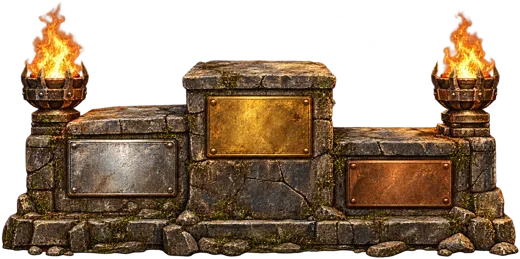
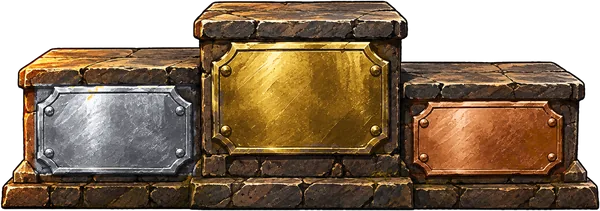
Changes page: new Talentsmith podium and stocks (approved on the Desk Nov 22)
Claude-Session: https://claude.ai/code/session_01TZvTBwK3Danco6NfbPHNFf

diff --git a/changes.html b/changes.html
@@ -39,7 +39,7 @@ table.races{width:auto;min-width:0}table.races th,table.races td{padding-right:2
 .wl p{margin:0 0 6px;font-size:13px;color:var(--muted)}
 .wl img{display:block;width:100%;max-width:300px;height:auto;margin:4px auto 8px}
 .wl ul{margin:0;padding:0;list-style:none;font-size:14.5px;line-height:1.45;color:#ddd4c2}.wl li{margin:6px 0}.wl li b{color:var(--gold-soft)}.wl .n li b{color:#f0a58a}
-@media (max-width:640px){.wl{grid-template-columns:1fr}}</style><div class="wl"><div><h2>Winners – Nov 23</h2><p>Talents that got better</p><img src="img/art/podium.webp" alt="Winners' podium" width="300" height="150" loading="lazy"><ul><li><b>Dark Inspiration</b> (Priest) now gives the correct Spirit bonus when Mind Flay triggers it.</li><li><b>Intensity</b> (Warlock) now also works on Incinerate.</li></ul></div><div class="n"><h2>Into the stocks</h2><p>Talents and spells that got weaker</p><img src="img/art/stocks.webp" alt="Stocks with crows" width="300" height="200" loading="lazy"><ul><li>No nerfs this time.</li></ul></div></div><style>.log{list-style:none;margin:0;padding:0 0 0 22px;border-left:2px solid #3b352f;display:flex;flex-direction:column;gap:14px}
+@media (max-width:640px){.wl{grid-template-columns:1fr}}</style><div class="wl"><div><h2>Winners – Nov 23</h2><p>Talents that got better</p><img src="img/art/podium.webp" alt="Winners' podium" width="300" height="105" loading="lazy"><ul><li><b>Dark Inspiration</b> (Priest) now gives the correct Spirit bonus when Mind Flay triggers it.</li><li><b>Intensity</b> (Warlock) now also works on Incinerate.</li></ul></div><div class="n"><h2>Into the stocks</h2><p>Talents and spells that got weaker</p><img src="img/art/stocks.webp" alt="Stocks with a crow" width="170" height="168" loading="lazy" style="max-width:170px"><ul><li>No nerfs this time.</li></ul></div></div><style>.log{list-style:none;margin:0;padding:0 0 0 22px;border-left:2px solid #3b352f;display:flex;flex-direction:column;gap:14px}
 .log>li{position:relative}
 .log>li::before{content:"";position:absolute;left:-30px;top:5px;width:12px;height:12px;transform:rotate(45deg);background:#0b0e15;border:2px solid var(--gold)}
 .log>li:first-child::before{background:var(--ember);border-color:var(--gold-soft);box-shadow:0 0 12px var(--ember)}

diff --git a/tools/gen-pages.js b/tools/gen-pages.js
@@ -445,7 +445,7 @@ const WLCSS=`.wl{display:grid;grid-template-columns:1fr 1fr;gap:14px;margin:18px
 .wl ul{margin:0;padding:0;list-style:none;font-size:14.5px;line-height:1.45;color:#ddd4c2}.wl li{margin:6px 0}.wl li b{color:var(--gold-soft)}.wl .n li b{color:#f0a58a}
 @media (max-width:640px){.wl{grid-template-columns:1fr}}`;
 const wlItems=a=>a.length?'':'<li>No nerfs this time.</li>';const wlI=a=>wlItems(a)||a.map(([t,c,x])=>`<li><b>${esc(t)}</b> (${esc(c)}) ${esc(x)}</li>`).join('');
-const wl=`<style>${WLCSS}</style><div class="wl"><div><h2>Winners – ${HOTFIX.date}</h2><p>Talents that got better</p><img src="img/art/podium.webp" alt="Winners' podium" width="300" height="150" loading="lazy"><ul>${wlI(HOTFIX.win)}</ul></div><div class="n"><h2>Into the stocks</h2><p>Talents and spells that got weaker</p><img src="img/art/stocks.webp" alt="Stocks with crows" width="300" height="200" loading="lazy"><ul>${wlI(HOTFIX.lose)}</ul></div></div>`;
+const wl=`<style>${WLCSS}</style><div class="wl"><div><h2>Winners – ${HOTFIX.date}</h2><p>Talents that got better</p><img src="img/art/podium.webp" alt="Winners' podium" width="300" height="105" loading="lazy"><ul>${wlI(HOTFIX.win)}</ul></div><div class="n"><h2>Into the stocks</h2><p>Talents and spells that got weaker</p><img src="img/art/stocks.webp" alt="Stocks with a crow" width="170" height="168" loading="lazy" style="max-width:170px"><ul>${wlI(HOTFIX.lose)}</ul></div></div>`;
 const log='<style>'+LOGCSS+'</style>'+idx.slice(idx.indexOf('<ol class="log">'),idx.indexOf('</ol>')+5);
 fs.writeFileSync(R+'changes.html',page(false,'WoW Forever Hotfixes & Changes Tracker | Talentsmith','WoW Forever hotfixes and racial changes, checked against the live game, plus what is coming next.',
 `<h1>Hotfixes &amp; changes</h1><p class="lede">Live WoW Forever hotfixes and racial changes, newest first. The talent calculator includes every class hotfix up to Nov 23. <a href="patch-nov-10.html">Nov 10 class changes, before and after →</a></p>${wl}${log}`,'changes.html'));
